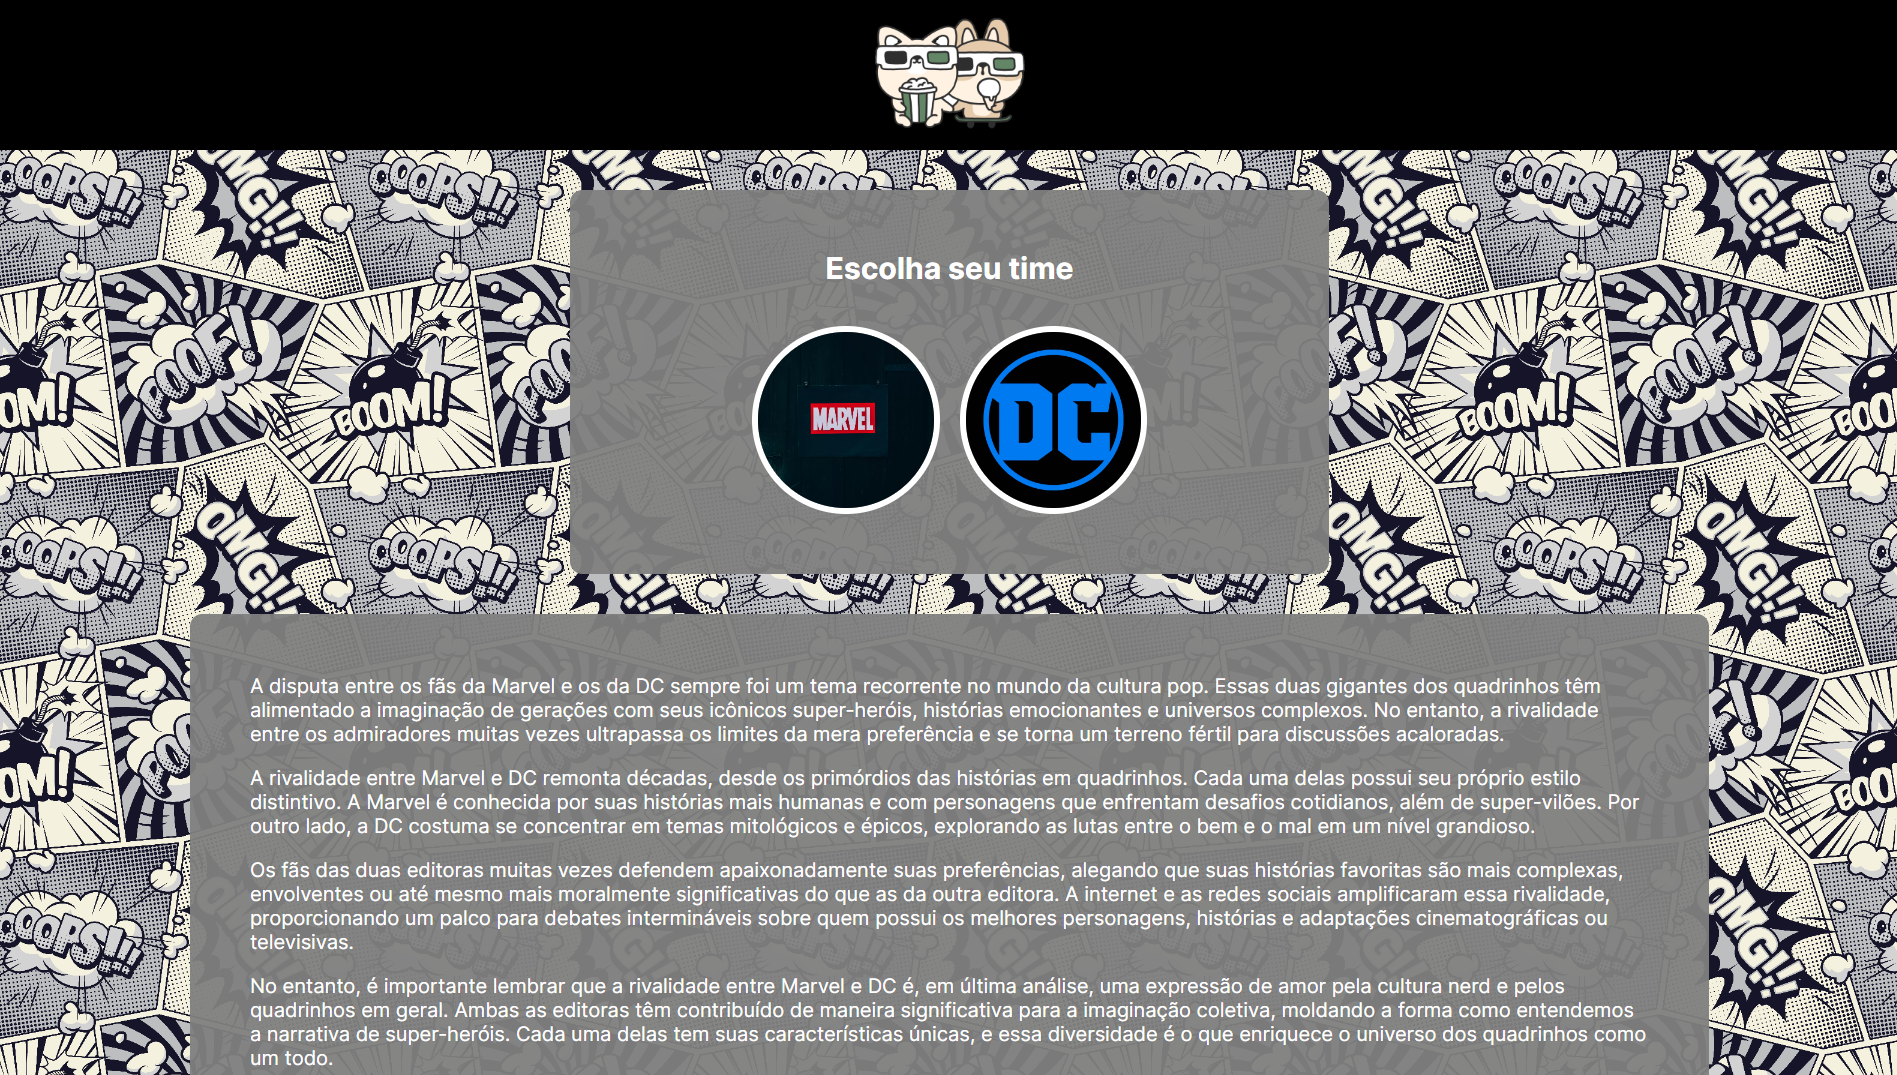
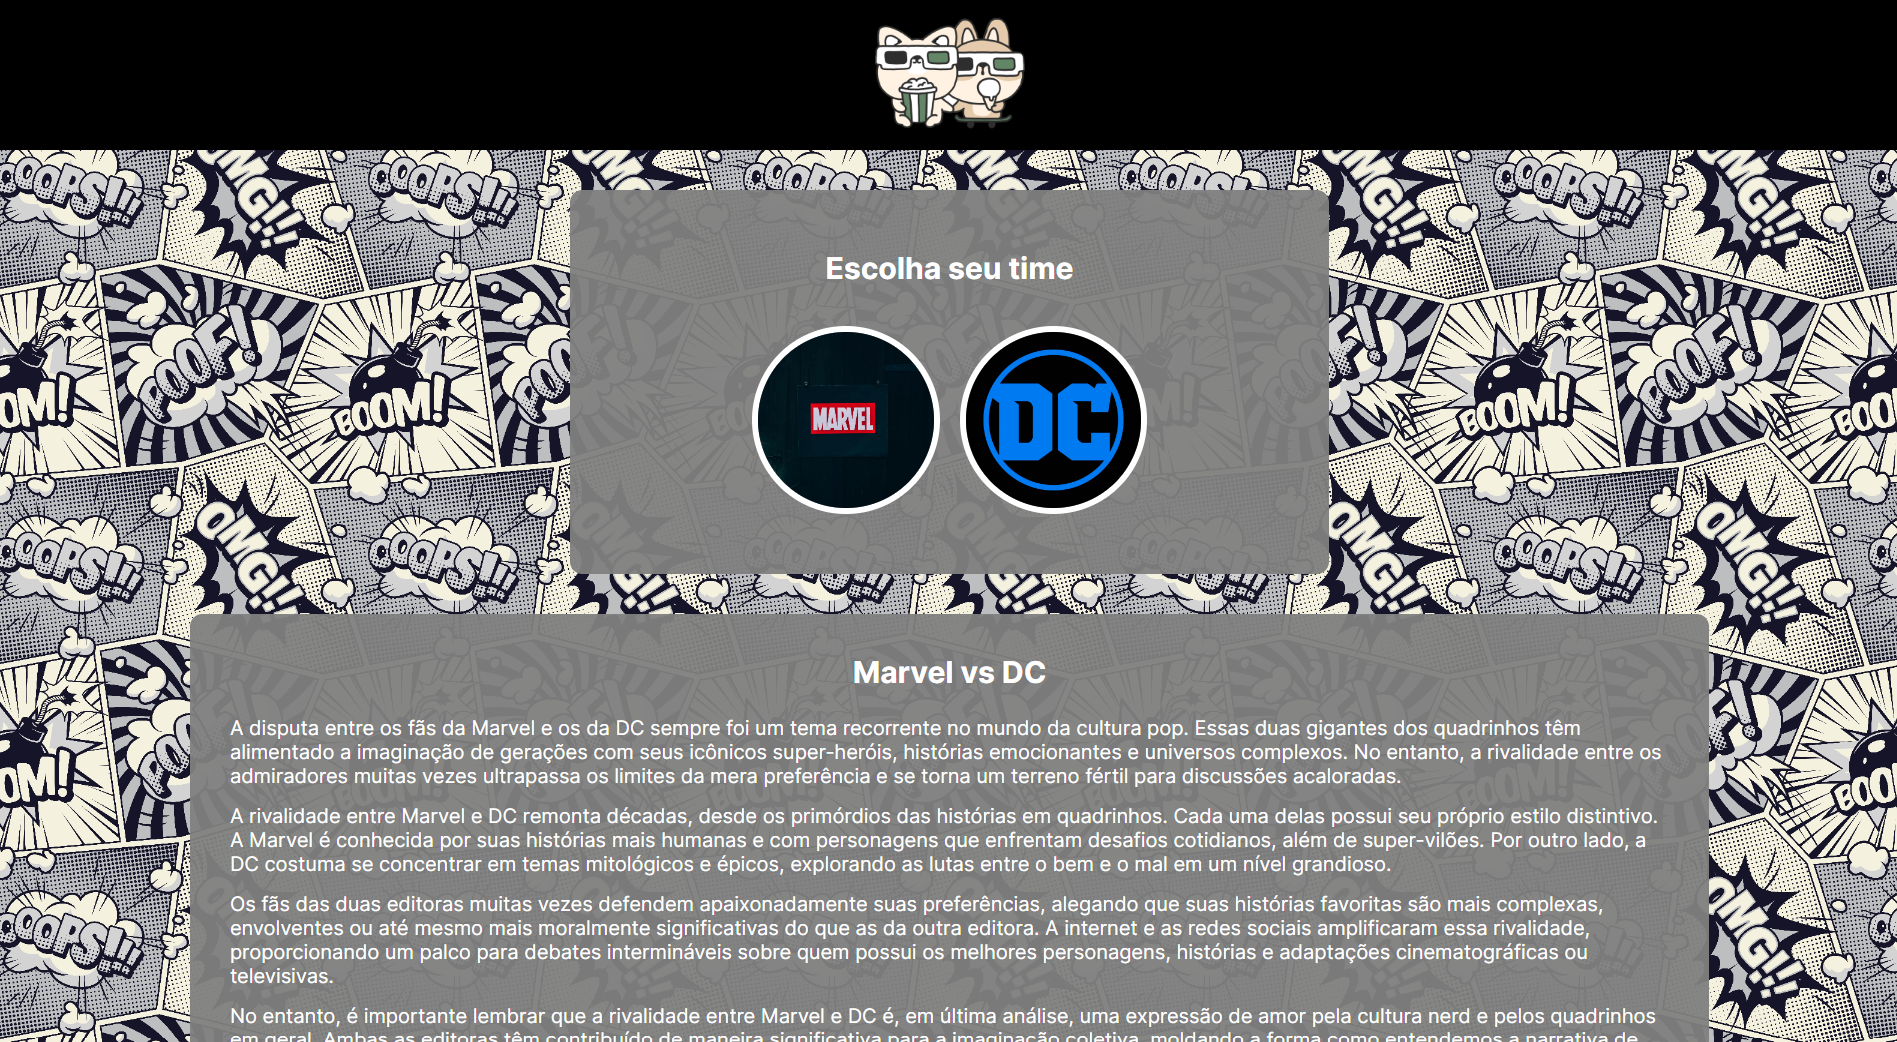
Refinamento

diff --git a/src/pages/Home/Home.tsx b/src/pages/Home/Home.tsx
@@ -33,6 +33,7 @@ export default function Home({ onToggleTeam }: HomeProps){
                 </div>
             </section>
             <section className='descricao'>
+                <h2>Marvel vs DC</h2>
                 <p>A disputa entre os fãs da Marvel e os da DC sempre foi um tema recorrente no mundo da cultura pop. Essas duas gigantes dos quadrinhos têm alimentado a imaginação de gerações com seus icônicos super-heróis, histórias emocionantes e universos complexos. No entanto, a rivalidade entre os admiradores muitas vezes ultrapassa os limites da mera preferência e se torna um terreno fértil para discussões acaloradas.</p>
                 <p>A rivalidade entre Marvel e DC remonta décadas, desde os primórdios das histórias em quadrinhos. Cada uma delas possui seu próprio estilo distintivo. A Marvel é conhecida por suas histórias mais humanas e com personagens que enfrentam desafios cotidianos, além de super-vilões. Por outro lado, a DC costuma se concentrar em temas mitológicos e épicos, explorando as lutas entre o bem e o mal em um nível grandioso.</p>
                 <p>Os fãs das duas editoras muitas vezes defendem apaixonadamente suas preferências, alegando que suas histórias favoritas são mais complexas, envolventes ou até mesmo mais moralmente significativas do que as da outra editora. A internet e as redes sociais amplificaram essa rivalidade, proporcionando um palco para debates intermináveis sobre quem possui os melhores personagens, histórias e adaptações cinematográficas ou televisivas.</p>

diff --git a/src/pages/Home/styles.ts b/src/pages/Home/styles.ts
@@ -52,11 +52,15 @@ export const MainHome = styled.main`
         background-color: ${(props) => props.theme.secondary};
         border-radius: 10px;
         width: 80%;
-        padding: 3rem;
+        padding: 2rem;
         display: flex;
         flex-direction: column;
         align-items: center;
-        gap: 1rem;
+        gap: .8rem;
         color: white;
+
+        h2{
+            margin-bottom: .5rem;
+        }
     }
 `
